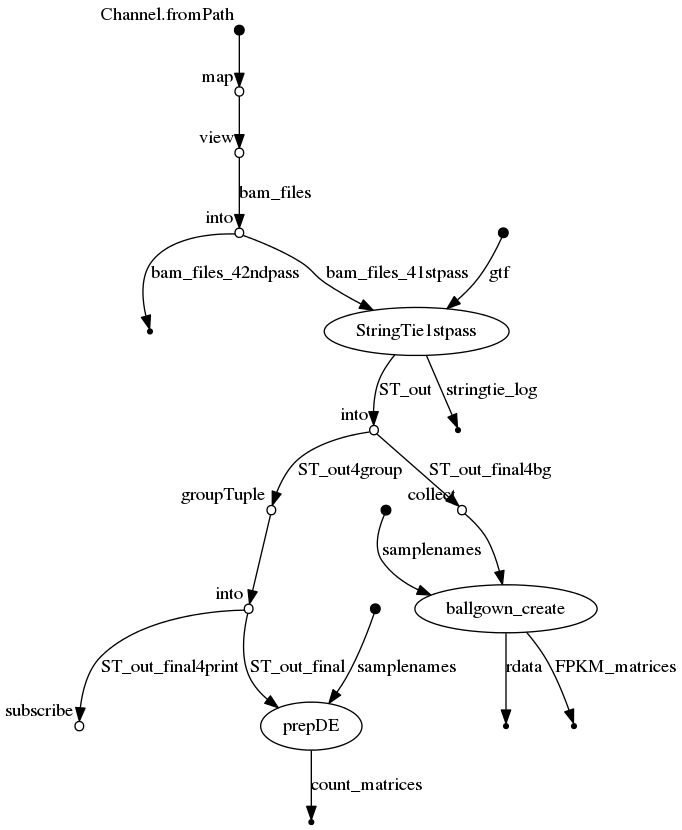
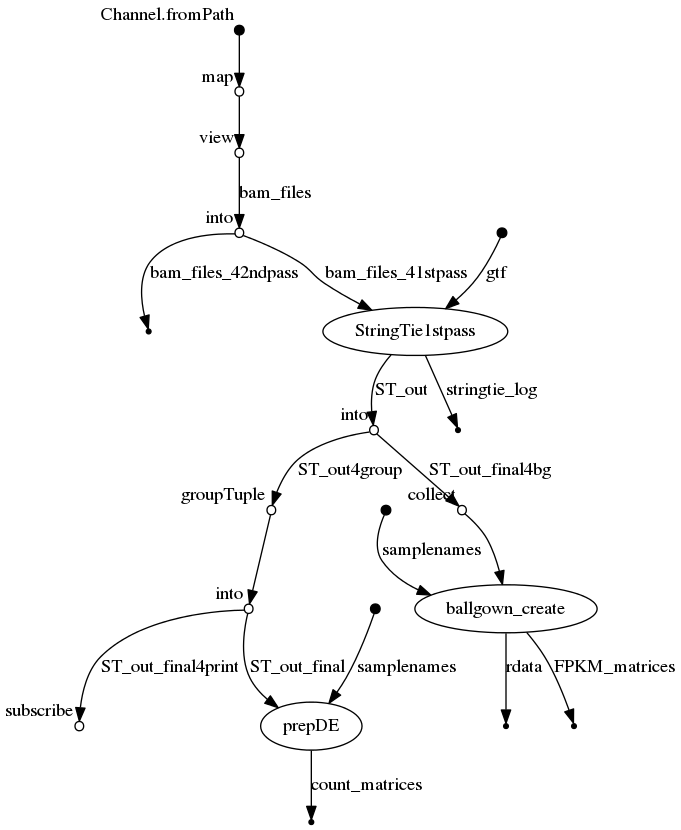
Generated DAG [skip ci]

diff --git a/dag_stringtie_2pass.html b/dag_stringtie_2pass.html
@@ -109,43 +109,56 @@ nodes: [
 { data: { id: 'p1', label: 'map'}, classes: 'OPERATOR' },
 { data: { id: 'p2', label: 'view'}, classes: 'OPERATOR' },
 { data: { id: 'p3', label: 'into'}, classes: 'OPERATOR' },
-{ data: { id: 'p4'}, classes: 'NODE' },
-{ data: { id: 'p5'}, classes: 'ORIGIN' },
-{ data: { id: 'p6', label: 'StringTie1stpass'}, classes: 'PROCESS' },
-{ data: { id: 'p7'}, classes: 'NODE' },
-{ data: { id: 'p8', label: 'into'}, classes: 'OPERATOR' },
-{ data: { id: 'p9', label: 'groupTuple'}, classes: 'OPERATOR' },
-{ data: { id: 'p10', label: 'into'}, classes: 'OPERATOR' },
-{ data: { id: 'p11', label: 'subscribe'}, classes: 'OPERATOR' },
-{ data: { id: 'p12'}, classes: 'ORIGIN' },
-{ data: { id: 'p13', label: 'prepDE'}, classes: 'PROCESS' },
-{ data: { id: 'p14'}, classes: 'NODE' },
-{ data: { id: 'p15', label: 'collect'}, classes: 'OPERATOR' },
-{ data: { id: 'p16'}, classes: 'ORIGIN' },
-{ data: { id: 'p17', label: 'ballgown_create'}, classes: 'PROCESS' },
-{ data: { id: 'p18'}, classes: 'NODE' },
-{ data: { id: 'p19'}, classes: 'NODE' },
+{ data: { id: 'p4'}, classes: 'ORIGIN' },
+{ data: { id: 'p5', label: 'StringTie1stpass'}, classes: 'PROCESS' },
+{ data: { id: 'p6'}, classes: 'NODE' },
+{ data: { id: 'p7', label: 'collect'}, classes: 'OPERATOR' },
+{ data: { id: 'p8'}, classes: 'ORIGIN' },
+{ data: { id: 'p9', label: 'mergeGTF'}, classes: 'PROCESS' },
+{ data: { id: 'p10'}, classes: 'NODE' },
+{ data: { id: 'p11'}, classes: 'ORIGIN' },
+{ data: { id: 'p12', label: 'StringTie2ndpass'}, classes: 'PROCESS' },
+{ data: { id: 'p13'}, classes: 'NODE' },
+{ data: { id: 'p14', label: 'into'}, classes: 'OPERATOR' },
+{ data: { id: 'p15', label: 'groupTuple'}, classes: 'OPERATOR' },
+{ data: { id: 'p16', label: 'into'}, classes: 'OPERATOR' },
+{ data: { id: 'p17', label: 'subscribe'}, classes: 'OPERATOR' },
+{ data: { id: 'p18'}, classes: 'ORIGIN' },
+{ data: { id: 'p19', label: 'prepDE'}, classes: 'PROCESS' },
+{ data: { id: 'p20'}, classes: 'NODE' },
+{ data: { id: 'p21', label: 'collect'}, classes: 'OPERATOR' },
+{ data: { id: 'p22'}, classes: 'ORIGIN' },
+{ data: { id: 'p23', label: 'ballgown_create'}, classes: 'PROCESS' },
+{ data: { id: 'p24'}, classes: 'NODE' },
+{ data: { id: 'p25'}, classes: 'NODE' },
 ],
 edges: [
 { data: { source: 'p0', target: 'p1'} },
 { data: { source: 'p1', target: 'p2'} },
 { data: { source: 'p2', target: 'p3', label: 'bam_files' } },
-{ data: { source: 'p3', target: 'p4', label: 'bam_files_42ndpass' } },
-{ data: { source: 'p3', target: 'p6', label: 'bam_files_41stpass' } },
-{ data: { source: 'p5', target: 'p6', label: 'gtf' } },
-{ data: { source: 'p6', target: 'p8', label: 'ST_out' } },
-{ data: { source: 'p6', target: 'p7', label: 'stringtie_log' } },
-{ data: { source: 'p8', target: 'p15', label: 'ST_out_final4bg' } },
-{ data: { source: 'p8', target: 'p9', label: 'ST_out4group' } },
-{ data: { source: 'p9', target: 'p10'} },
-{ data: { source: 'p10', target: 'p11', label: 'ST_out_final4print' } },
-{ data: { source: 'p10', target: 'p13', label: 'ST_out_final' } },
-{ data: { source: 'p12', target: 'p13', label: 'samplenames' } },
-{ data: { source: 'p13', target: 'p14', label: 'count_matrices' } },
-{ data: { source: 'p15', target: 'p17'} },
-{ data: { source: 'p16', target: 'p17', label: 'samplenames' } },
-{ data: { source: 'p17', target: 'p19', label: 'FPKM_matrices' } },
-{ data: { source: 'p17', target: 'p18', label: 'rdata' } },
+{ data: { source: 'p3', target: 'p12', label: 'bam_files_42ndpass' } },
+{ data: { source: 'p3', target: 'p5', label: 'bam_files_41stpass' } },
+{ data: { source: 'p4', target: 'p5', label: 'gtf' } },
+{ data: { source: 'p5', target: 'p7', label: 'ST_out' } },
+{ data: { source: 'p5', target: 'p6', label: 'stringtie_log' } },
+{ data: { source: 'p7', target: 'p9'} },
+{ data: { source: 'p8', target: 'p9', label: 'gtf' } },
+{ data: { source: 'p9', target: 'p12', label: 'merged_gtf' } },
+{ data: { source: 'p9', target: 'p10', label: 'gffcmp_output' } },
+{ data: { source: 'p11', target: 'p12', label: 'gtf' } },
+{ data: { source: 'p12', target: 'p14', label: 'ST_out2' } },
+{ data: { source: 'p12', target: 'p13', label: 'stringtie_log_2pass' } },
+{ data: { source: 'p14', target: 'p21', label: 'ST_out_final4bg' } },
+{ data: { source: 'p14', target: 'p15', label: 'ST_out4group' } },
+{ data: { source: 'p15', target: 'p16'} },
+{ data: { source: 'p16', target: 'p17', label: 'ST_out_final4print' } },
+{ data: { source: 'p16', target: 'p19', label: 'ST_out_final' } },
+{ data: { source: 'p18', target: 'p19', label: 'samplenames' } },
+{ data: { source: 'p19', target: 'p20', label: 'count_matrices' } },
+{ data: { source: 'p21', target: 'p23'} },
+{ data: { source: 'p22', target: 'p23', label: 'samplenames' } },
+{ data: { source: 'p23', target: 'p25', label: 'FPKM_matrices' } },
+{ data: { source: 'p23', target: 'p24', label: 'rdata' } },
 ],
 },
 
